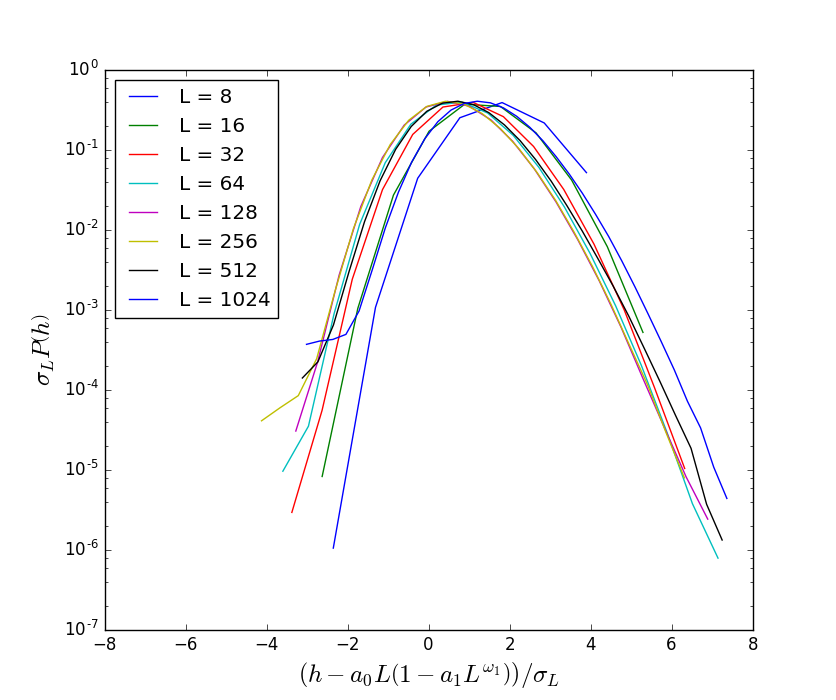
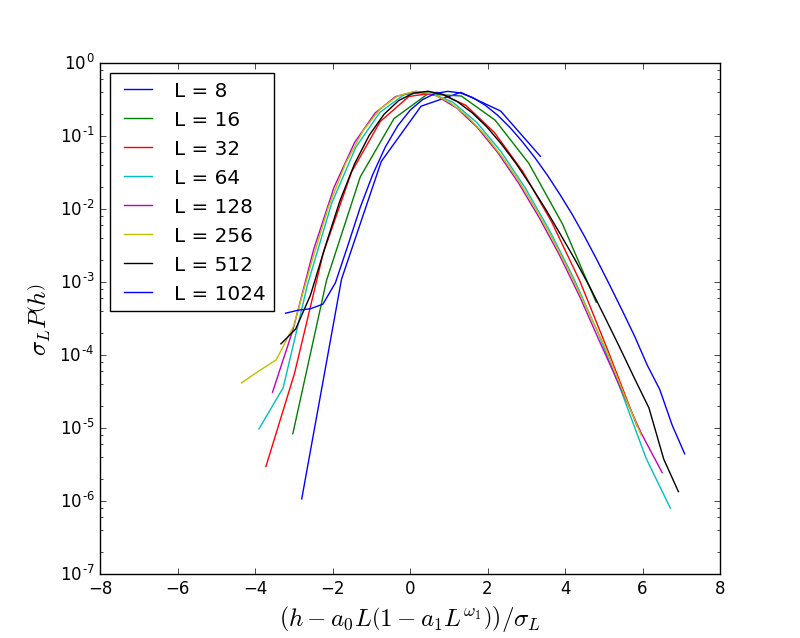
Updated git repository.

diff --git a/Python/analysis.py b/Python/analysis.py
@@ -103,16 +103,16 @@ class Height:
         self.mean = np.array(mean)
         self.std = np.array(std)
     def bindata(self):
-        a = [1.72715,pow(np.e,-0.271)]
+        a = [1.72715,pow(10,-0.271)]
         w1 = -0.919
         for i in range(len(self.data)):
             bins = np.arange(min(self.data[i][self.tc[i]:]),max(self.data[i][self.tc[i]:])+1,1)
             dat = np.histogram(self.data[i],bins)
             dat = dat[0]/float(len(self.data[i][self.tc[i]:]))
-            for j in range(len(bins)-1):
-                dat[j] = dat[j]*self.std[i]
             L = pow(2,i+3)
-            plt.plot((bins[1:]-a[0]*L*(1-a[1]*pow(L,w1)))/self.std[i],dat,label='L = %d'%(pow(2,i+3)))
+            for j in range(len(bins)-1):
+                dat[j] = dat[j]*(0.59265*pow(L,0.2390))
+            plt.plot((bins[1:]-a[0]*L*(1-a[1]*pow(L,w1)))/(0.59265*pow(L,0.2390)),dat,label='L = %d'%(pow(2,i+3)))
         #plt.xscale('log')
         plt.yscale('log')
         plt.xlim(-8,8)
